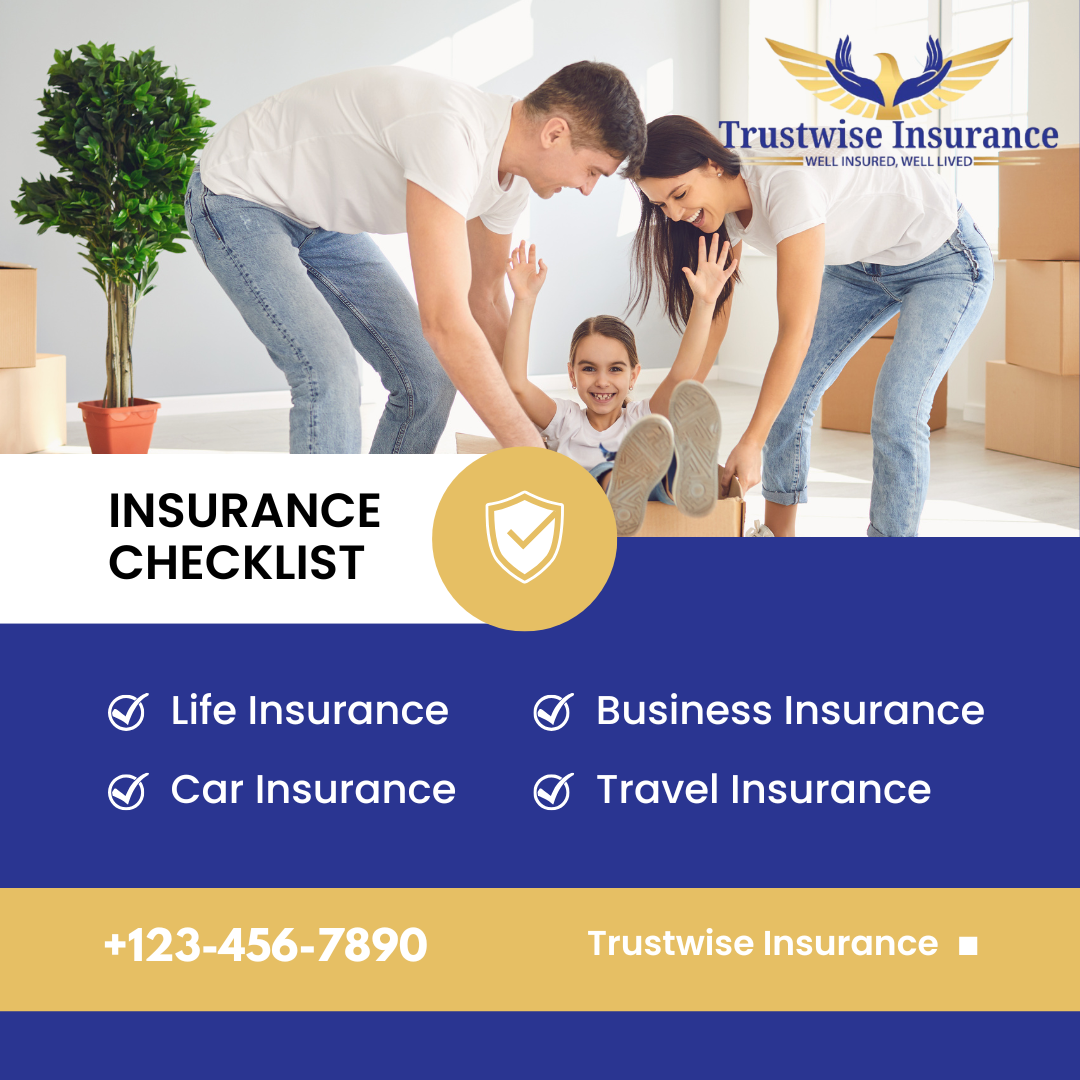
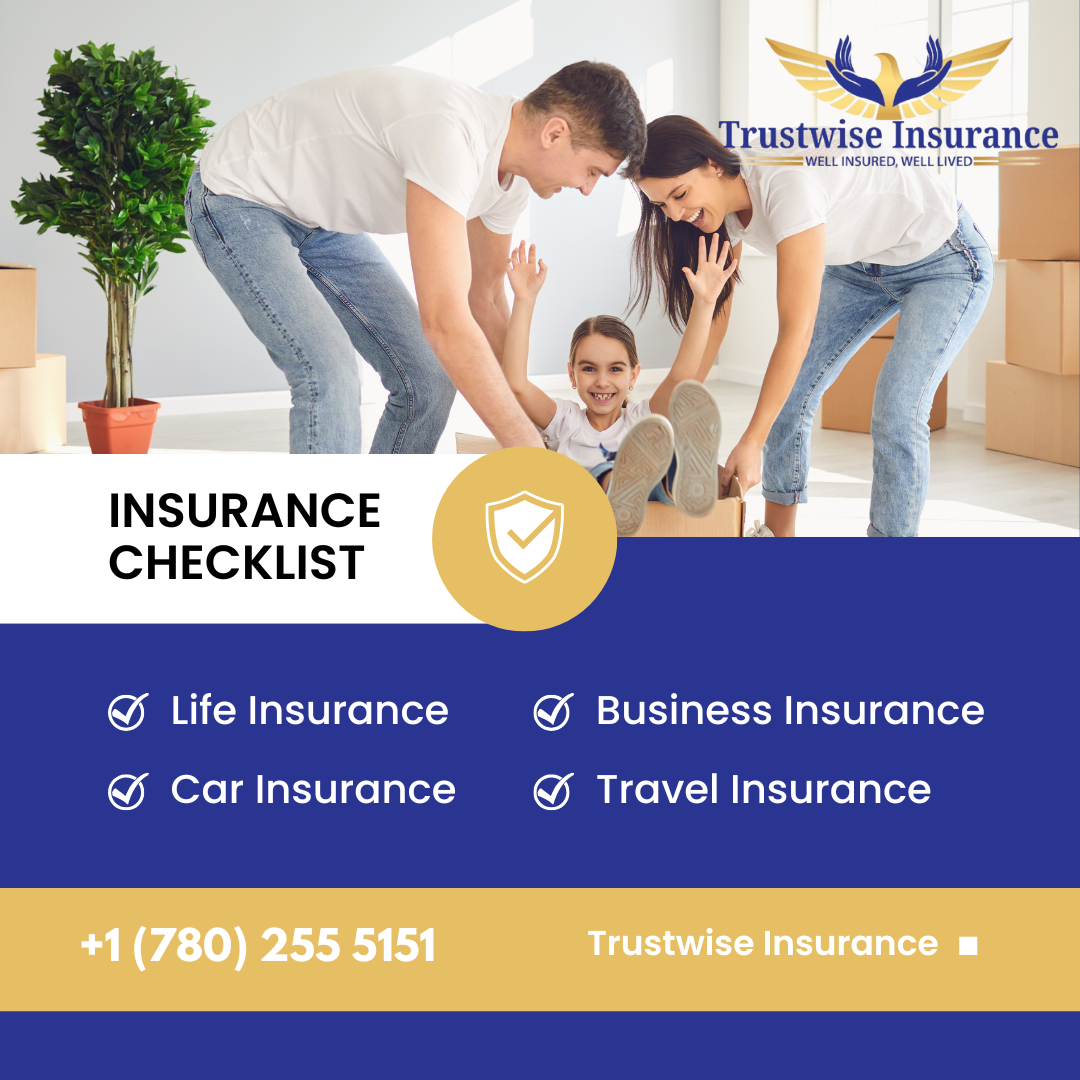
remove aaxel keyword

Changed region(s): [[0.0611, 0.8556, 0.4278, 0.9167]]

diff --git a/src/app/privacy-policy/page.jsx b/src/app/privacy-policy/page.jsx
@@ -10,7 +10,7 @@ const Privacy = () => {
         </h2>
         <div className="flex flex-col gap-8 md:text-lg py-10">
         <p className="">
-          <strong>Aaxel Insurance Brokers Ltd.</strong> values your business and
+          <strong>Trustwise Insurance Brokers Ltd.</strong> values your business and
           we thank you for your confidence in choosing our firm as your source
           of advice and products. As our client, you trust us with your personal
           information. We respect that trust and want you to be aware of our
@@ -27,10 +27,10 @@ const Privacy = () => {
           their own products or services.
         </p>
         <p className="font-semibold ">
-          Aaxel Insurance Brokers Ltd. Privacy Statement
+          Trustwise Insurance Brokers Ltd. Privacy Statement
         </p>
         <p className="">
-          The subsidiaries and operating divisions of Aaxel Insurance Brokers
+          The subsidiaries and operating divisions of Trustwise Insurance Brokers
           Ltd. take steps intended to meet privacy principles and requirements
           with respect to personal information under applicable Canadian privacy
           legislation. The purpose of this statement is to inform our customers
@@ -44,17 +44,17 @@ const Privacy = () => {
           personal information.
         </p>
         <p className="font-semibold">
-          Aaxel Insurance Entities Providing this Privacy Statement
+          Trustwise Insurance Entities Providing this Privacy Statement
         </p>
         <p>
-          We are providing this Privacy Statement on behalf of Aaxel insurance’s
+          We are providing this Privacy Statement on behalf of Trustwise insurance’s
           entities and operating divisions, listed below:
         </p>
-        <p>Aaxel Insurance Brokers Ltd.</p>
-        <p>Aaxel Financial Services Ltd.</p>
+        <p>Trustwise Insurance Brokers Ltd.</p>
+        <p>Trustwise Financial Services Ltd.</p>
         <p className="font-semibold">Personal Information We Collect</p>
         <p>
-          Aaxel insurance and its brokers/agents and representatives collect
+          Trustwise insurance and its brokers/agents and representatives collect
           personal information in a number of circumstances in the course of
           conducting our business. Personal information we may collect includes:
         </p>
@@ -93,8 +93,8 @@ const Privacy = () => {
         </p>
         <p className="font-semibold">Disclosure of Your Personal Information</p>
         <p>
-          As necessary to carry out the purposes for which Aaxel insurance
-          collects and uses your personal information. Aaxel insurance may
+          As necessary to carry out the purposes for which Trustwise insurance
+          collects and uses your personal information. Trustwise insurance may
           disclose your personal information to third parties, such as other
           insurance brokers, insurers, consumer reporting agencies, claims
           adjusters, government, regulatory and self-regulatory agencies,
@@ -102,7 +102,7 @@ const Privacy = () => {
           professionals, and others involved in the claims handling process in
           accordance with legal and insurance regulatory reporting requirements
           or standard accepted insurance brokerage and insurance practices.
-          Aaxel insurance may also disclose your personal information with your
+          Trustwise insurance may also disclose your personal information with your
           consent or as permitted or required by law.
         </p>
         <p className="font-semibold">Disclosure to Affilates</p>
@@ -122,7 +122,7 @@ const Privacy = () => {
           control. These include safeguards to protect personal information
           against loss or theft, as well as unauthorized access, disclosure,
           copying, use, or modification. Authorized employees, agents and
-          mandataries of Aaxel Insurance who require access to your personal
+          mandataries of Trustwise Insurance who require access to your personal
           information in order to fulfill their job requirements will have
           access to your personal information.
         </p>

diff --git a/src/app/term-of-use/page.jsx b/src/app/term-of-use/page.jsx
@@ -9,7 +9,7 @@ const TermPage = () => {
       </h2>
       <div className="flex flex-col gap-8 py-10 md:text-lg">
         <p>
-          Thank you for your request. Below is a detailed terms of use for Aaxel
+          Thank you for your request. Below is a detailed terms of use for Trustwise
           Insurance Brokers Ltd. Please note that this is a sample and may not
           reflect the exact terms of use for the company.
         </p>
@@ -17,13 +17,13 @@ const TermPage = () => {
           Acceptance of Terms
         </h2>
         <p>
-          By using the Aaxel Insurance Brokers Ltd. website (the “Site”), you
+          By using the Trustwise Insurance Brokers Ltd. website (the “Site”), you
           agree to be bound by these terms of use (the “Terms”). If you do not
           agree to these Terms, please do not use the Site.
         </p>
         <h2 className="text-primary font-semibold text-2xl">Use of Site</h2>
         <p>
-          By using the Aaxel Insurance Brokers Ltd. website (the “Site”), you
+          By using the Trustwise Insurance Brokers Ltd. website (the “Site”), you
           You may use the Site only for lawful purposes and in accordance with
           these Terms. You agree not to use the Site:
         </p>
@@ -34,7 +34,7 @@ const TermPage = () => {
           </li>
           <li>
             To engage in any conduct that restricts or inhibits anyone’s use or
-            enjoyment of the Site, or which, as determined by us, may harm Aaxel
+            enjoyment of the Site, or which, as determined by us, may harm Trustwise
             Insurance Brokers Ltd. or users of the Site or expose them to
             liability.
           </li>
@@ -50,7 +50,7 @@ const TermPage = () => {
         </h2>
         <p>
           The content on the Site, including but not limited to text, graphics,
-          logos, images, and software, is owned by Aaxel Insurance Brokers Ltd.
+          logos, images, and software, is owned by Trustwise Insurance Brokers Ltd.
           or its licensors and is protected by applicable copyright, trademark,
           and other intellectual property laws. You may not reproduce,
           distribute, modify, create derivative works of, publicly display,
@@ -73,7 +73,7 @@ const TermPage = () => {
         <p>
           The Site may contain links to third-party websites. These links are
           provided solely for your convenience and do not imply endorsement or
-          approval of these websites by Aaxel Insurance Brokers Ltd. We are not
+          approval of these websites by Trustwise Insurance Brokers Ltd. We are not
           responsible for the content of these websites or for any loss or
           damage that may arise from your use of them.
         </p>
@@ -84,7 +84,7 @@ const TermPage = () => {
           The Site and its contents are provided “as is” without warranty of any
           kind, either expressed or implied, including but not limited to, the
           implied warranties of merchantability, fitness for a particular
-          purpose, or non-infringement. Aaxel Insurance Brokers Ltd. does not
+          purpose, or non-infringement. Trustwise Insurance Brokers Ltd. does not
           warrant that the Site or its contents will be uninterrupted or
           error-free, that defects will be corrected, or that the Site or its
           servers are free of viruses or other harmful components.
@@ -93,7 +93,7 @@ const TermPage = () => {
           Changes to Term of Use
         </h2>
         <p>
-          Aaxel Insurance Brokers Ltd. reserves the right to modify these Terms
+          Trustwise Insurance Brokers Ltd. reserves the right to modify these Terms
           at any time without prior notice. Your continued use of the Site after
           such modifications constitutes your acceptance of the updated Terms.
         </p>

diff --git a/src/components/Navbar.jsx b/src/components/Navbar.jsx
@@ -272,8 +272,7 @@ const DeskNavbar = () => {
       {/* Top Navbar */}
       <div className="bg-[#0E1E40] text-sm text-gray-300 py-2 px-8 flex justify-between items-center">
         <div className="flex space-x-6">
-          
-          <span className="flex items-center">✉ support@trustwise.com</span>
+          <a href="mailto:info@trustwiseinsurance.com" className="flex items-center">✉ info@trustwiseinsurance.com</a>
         </div>
         <div className="flex space-x-6">
           {[
@@ -304,7 +303,7 @@ const DeskNavbar = () => {
           <Link href="/">
             <Image
               src={Navlogo}
-              alt="Aaxel Insurance"
+              alt="Trustwise Insurance"
               priority
               className="h-auto max-w-[200px]"
             />
@@ -380,14 +379,20 @@ const DeskNavbar = () => {
             <div className="w-10 h-10 flex items-center justify-center bg-gray-100 rounded-full">
               📞
             </div>
-            <div>
+            <div className="flex flex-col gap-2 pt-2">
               <a
-                href="tel:+18663582860"
+                href="tel:+17802555151"
                 className="cursor-pointer text-sm font-bold"
               >
-                +1 866-358-2860
-                <p className="text-xs text-gray-500">Call to Our Experts</p>
+                +1 (780) 255-5151
               </a>
+              <a
+                href="tel:+17802555252"
+                className="cursor-pointer text-sm font-bold"
+              >
+                +1 (780) 255-5252
+              </a>
+                <p className="text-xs text-gray-500">Call to Our Experts</p>
             </div>
           </div>
         </div>
@@ -436,7 +441,7 @@ const DeskNavbar = () => {
 //           <Link href="/">
 //             <Image
 //               src={Navlogo}
-//               alt="Aaxel Insurance"
+//               alt="Trustwise Insurance"
 //               priority
 //               className="w-full h-auto md:w-3/4"
 //             />

diff --git a/src/components/homepage/ContactCard.jsx b/src/components/homepage/ContactCard.jsx
@@ -14,20 +14,20 @@ export default function ContactUs() {
             Trustwise Insurance Brokers Ltd.
           </h3>
           <p className="text-lg">
-            <strong>Address:</strong> 1550 South Gateway Road Suite 220,
-            Mississauga, ON L4W 5G6
+            <strong>Address:</strong> #106 5305 Magasin Ave Beaumount, AB T4X 1V8, Canada
           </p>
           <p className="text-lg mt-2">
             <strong>Monday - Friday:</strong> 09:00 am - 05:00 pm
           </p>
           <div className="mt-4">
             <p className="text-lg font-semibold">CALL US TODAY:</p>
-            <p className="text-xl font-bold text-gray-800">+1 905-362-8080</p>
-            <p className="text-xl font-bold text-gray-800">+1 866-358-2860</p>
+            <p className="text-xl font-bold text-gray-800">+1 (780) 255-5151</p>
+            <p className="text-xl font-bold text-gray-800">+1 (780) 255-5252</p>
+            <p className="text-xl font-bold text-gray-800">+1 (780) 255-5353</p>
           </div>
           <p className="mt-4 text-lg">
             <strong>Email:</strong>{" "}
-            <a href="mailto:info@aaxelinsurance.com" className="text-blue-500">
+            <a href="mailto:info@trustwiseinsurance.com" className="text-blue-500">
               Get in Touch
             </a>
           </p>
@@ -36,7 +36,7 @@ export default function ContactUs() {
         {/* Google Map */}
         <div className="mt-8 w-full h-96">
           <iframe
-            title="Aaxel Insurance Location"
+            title="Trustwise Insurance Location"
             className="w-full h-full border-0 rounded-lg"
             src="https://www.google.com/maps/embed?pb=!1m18!1m12!1m3!1d2886.354424927402!2d-79.62579512351845!3d43.636101055939634!2m3!1f0!2f0!3f0!3m2!1i1024!2i768!4f13.1!3m3!1m2!1s0x882b39ad6a6367ff%3A0xe293bb4235b760b6!2sAaxel%20Insurance%20Brokers%20Ltd!5e0!3m2!1sen!2sca!4v1708500000000"
             allowFullScreen

diff --git a/src/components/homepage/About.jsx b/src/components/homepage/About.jsx
@@ -16,13 +16,13 @@
 //           </div>
 //           <div className="flex flex-col gap-4">
 //             <p className="font-medium text-base md:text-lg">
-//               Founded in 2006, Aaxel Insurance is an independent insurance broker serving throughout Ontario and Alberta. Aaxel Insurance provides innovative Personal and Commercial Insurance solutions to its client’s Home, Auto, Life and Businesses through our trusted insurance partners.
+//               Founded in 2006, Trustwise Insurance is an independent insurance broker serving throughout Ontario and Alberta. Trustwise Insurance provides innovative Personal and Commercial Insurance solutions to its client’s Home, Auto, Life and Businesses through our trusted insurance partners.
 //             </p>
 //             <p className="font-medium text-base md:text-lg">
-//               Aaxel Insurance delivers best-in-class insurance solutions backed by excellent customer service. We have locations across Ontario and Alberta and proudly serve thousands of customers.
+//               Trustwise Insurance delivers best-in-class insurance solutions backed by excellent customer service. We have locations across Ontario and Alberta and proudly serve thousands of customers.
 //             </p>
 //             <p className="font-medium text-base md:text-lg">
-//               Aaxel Insurance provides innovative insurance solutions for all your insurance needs at very competitive rates.
+//               Trustwise Insurance provides innovative insurance solutions for all your insurance needs at very competitive rates.
 //             </p>
 //           </div>
 //           <div className="my-4">

diff --git a/src/app/cheerleadingclubs/page.jsx b/src/app/cheerleadingclubs/page.jsx
@@ -14,7 +14,7 @@ const CheerleadingClubs = () => {
           <>
             <b>Your coverage, your way...</b>
             <p>
-              Aaxel Insurance Brokers Ltd. and Cheerleading Clubs are pleased to offer the
+              Trustwise Insurance Brokers Ltd. and Cheerleading Clubs are pleased to offer the
               following insurance programs for its members and their employees:
             </p>
             <ol className="list-decimal list-inside">
@@ -32,7 +32,7 @@ const CheerleadingClubs = () => {
               of the following numbers:
             </p>
             <br />
-            <b>Aaxel Insurance Brokers Ltd.</b>
+            <b>Trustwise Insurance Brokers Ltd.</b>
             <p>Ontario: 866-358-2860</p>
             <p>Quebec: 888-542-4811</p>
             <p>Rest of Canada: 866-247-7700</p>

diff --git a/src/app/our-location/page.jsx b/src/app/our-location/page.jsx
@@ -20,7 +20,7 @@ export default function OurLocation() {
           <div className="container mx-auto px-4">
             <div className="mt-8 w-full h-64 md:h-96">
               <iframe
-                title="Aaxel Insurance Location"
+                title="Trustwise Insurance Location"
                 className="w-full h-full border-0 rounded-lg"
                 src="https://www.google.com/maps/embed?pb=!1m18!1m12!1m3!1d2886.354424927402!2d-79.62579512351845!3d43.636101055939634!2m3!1f0!2f0!3f0!3m2!1i1024!2i768!4f13.1!3m3!1m2!1s0x882b39ad6a6367ff%3A0xe293bb4235b760b6!2sAaxel%20Insurance%20Brokers%20Ltd!5e0!3m2!1sen!2sca!4v1708500000000"
                 allowFullScreen

diff --git a/src/components/CommonComponents/Banner.jsx b/src/components/CommonComponents/Banner.jsx
@@ -6,7 +6,7 @@ const TrustBanner = () => {
     {
       icon: <FaLink />,
       title: "Join thousands plus customers",
-      text: "who have trusted Aaxel!",
+      text: "who have trusted Trustwise!",
     },
     {
       icon: <FaPiggyBank />,
